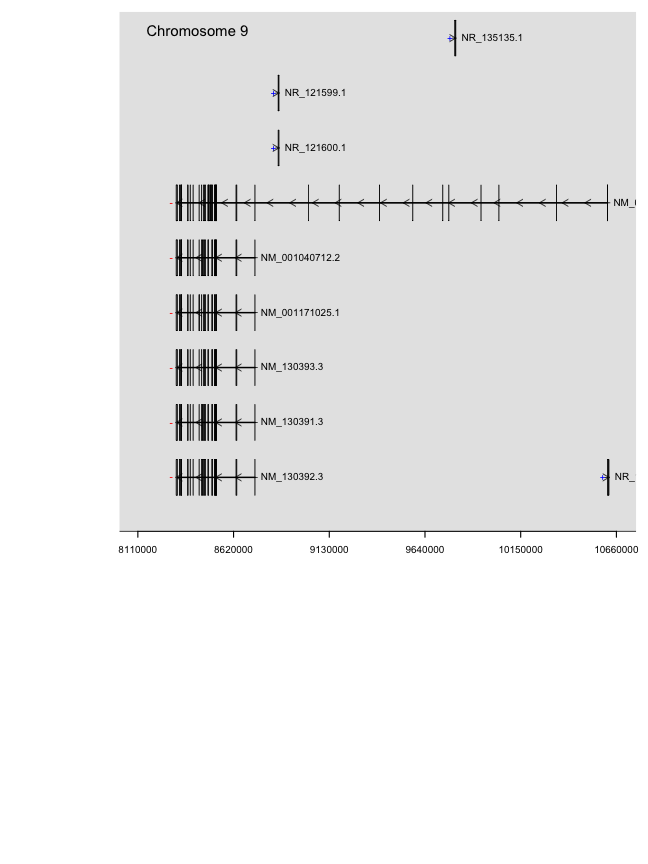
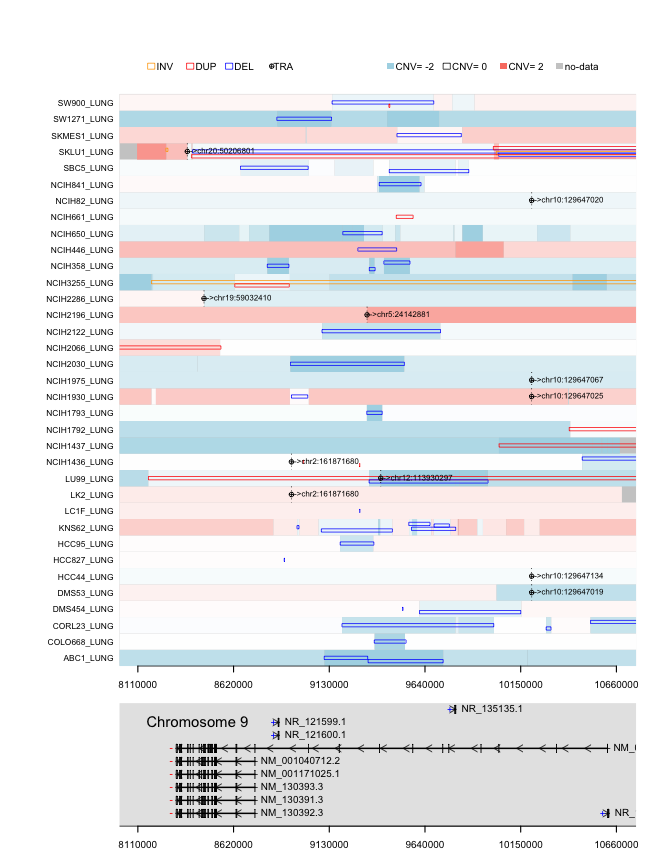
modified:   R/sv.break.annot.r 	modified:   README.md 	modified:   figure/plot4.2-1.png 	modified:   figure/plot5-1.png 	modified:   figure/plot7-1.png 	modified:   figure/plot9-1.png

diff --git a/README.md b/README.md
@@ -742,11 +742,9 @@ hotspots$peakRegionsSamples[1]
 ```
 
 ```
-## $`chr8 31254 22031254`
-##  [1] "ABC1_LUNG"     "EKVX_LUNG"     "HCC1171_LUNG"  "HCC1195_LUNG"  "HCC2814_LUNG"  "HCC2935_LUNG"  "HLFA_LUNG"     "LC1F_LUNG"     "LC1SQSF_LUNG"  "LK2_LUNG"     
-## [11] "LU99_LUNG"     "NCIH1092_LUNG" "NCIH1184_LUNG" "NCIH1395_LUNG" "NCIH1435_LUNG" "NCIH1568_LUNG" "NCIH1573_LUNG" "NCIH1581_LUNG" "NCIH1618_LUNG" "NCIH1650_LUNG"
-## [21] "NCIH196_LUNG"  "NCIH1975_LUNG" "NCIH2009_LUNG" "NCIH2023_LUNG" "NCIH2081_LUNG" "NCIH2087_LUNG" "NCIH2227_LUNG" "NCIH3255_LUNG" "NCIH441_LUNG"  "NCIH446_LUNG" 
-## [31] "RERFLCAI_LUNG" "RERFLCMS_LUNG" "SCLC21H_LUNG"
+## $`chr5 20015532 30015532`
+##  [1] "ABC1_LUNG"     "HCC4006_LUNG"  "HCC44_LUNG"    "NCIH1385_LUNG" "NCIH1563_LUNG" "NCIH1581_LUNG" "NCIH1648_LUNG" "NCIH2227_LUNG" "NCIH510_LUNG"  "NCIH520_LUNG" 
+## [11] "RERFLCMS_LUNG" "SKLU1_LUNG"    "T3M10_LUNG"
 ```
 
 Beyond this point the user can test case/control hipothesys for chromosome shattering of specific genomic regions within the dataset under study.
@@ -801,46 +799,20 @@ SV calls do not incorporate dosage information, therefore we study the localizat
 results_sv <- sv.break.annot(svdf, sv.seg.size = 200000, genome.v="hg19",upstr = 50000, verbose=FALSE)
 ```
 
-```
-## Error in data.frame(geneHits, svHits): arguments imply differing number of rows: 0, 9306
-```
-
 We can then integrate results obtained from scanning SV and CNV breks using the 'merge2lists' function 
 
 ```r
 # intersect elements from two lists
 disruptSamples <- merge2lists(results_cnv@disruptSamples,results_sv@disruptSamples, fun="intersect")
-```
-
-```
-## Error in as.vector(y): object 'results_sv' not found
-```
-
-```r
 upstreamSamples <- merge2lists(results_cnv@upstreamSamples,results_sv@upstreamSamples, fun="intersect")
-```
 
-```
-## Error in as.vector(y): object 'results_sv' not found
-```
-
-```r
 # plot a ranking of recurrently altered genes
 par(mar=c(5,10,1,1),mfrow=c(1,2))
 barplot(rev(sort(unlist(lapply(disruptSamples,length)),decreasing=T)[1:20]),horiz=T,las=1)
-```
-
-```
-## Error in lapply(disruptSamples, length): object 'disruptSamples' not found
-```
-
-```r
 barplot(rev(sort(unlist(lapply(upstreamSamples,length)),decreasing=T)[1:20]),horiz=T,las=1)
 ```
 
-```
-## Error in lapply(upstreamSamples, length): object 'upstreamSamples' not found
-```
+<img src="figure/plot7-1.png" title="Recurrently altered genes with overlapping CNV breakpoints" alt="Recurrently altered genes with overlapping CNV breakpoints" style="display: block; margin: auto;" />
 
 
 
@@ -859,25 +831,12 @@ chr <- df$chrom[1]
 # In this case we are using the list of samples with SV breakpoints disrupting PTPRD
 
 sampleids <- sort(results_sv@disruptSamples$PTPRD)
-```
 
-```
-## Error in sort(results_sv@disruptSamples$PTPRD): object 'results_sv' not found
-```
-
-```r
 layout(matrix(c(1,1,2,2),2,2 ,byrow = TRUE),heights = c(8,2))
 par(mar=c(0,10,1,1))
 sv.model.view(svdf, segdf[which(segdf$sample %in% svdf$sample),], chr, start, stop, sampleids=sampleids, 
               addlegend = 'both', addtext=c("TRA"), cnvlim = c(-2,2), 
               cex=.7,cex.text =.8, summary = FALSE)
-```
-
-```
-## Error in sv.model.view(svdf, segdf[which(segdf$sample %in% svdf$sample), : object 'sampleids' not found
-```
-
-```r
 gene.track.view(chr=chr ,start=start, stop=stop, addtext=TRUE, cex.text=1, 
                 summary = FALSE)
 ```
